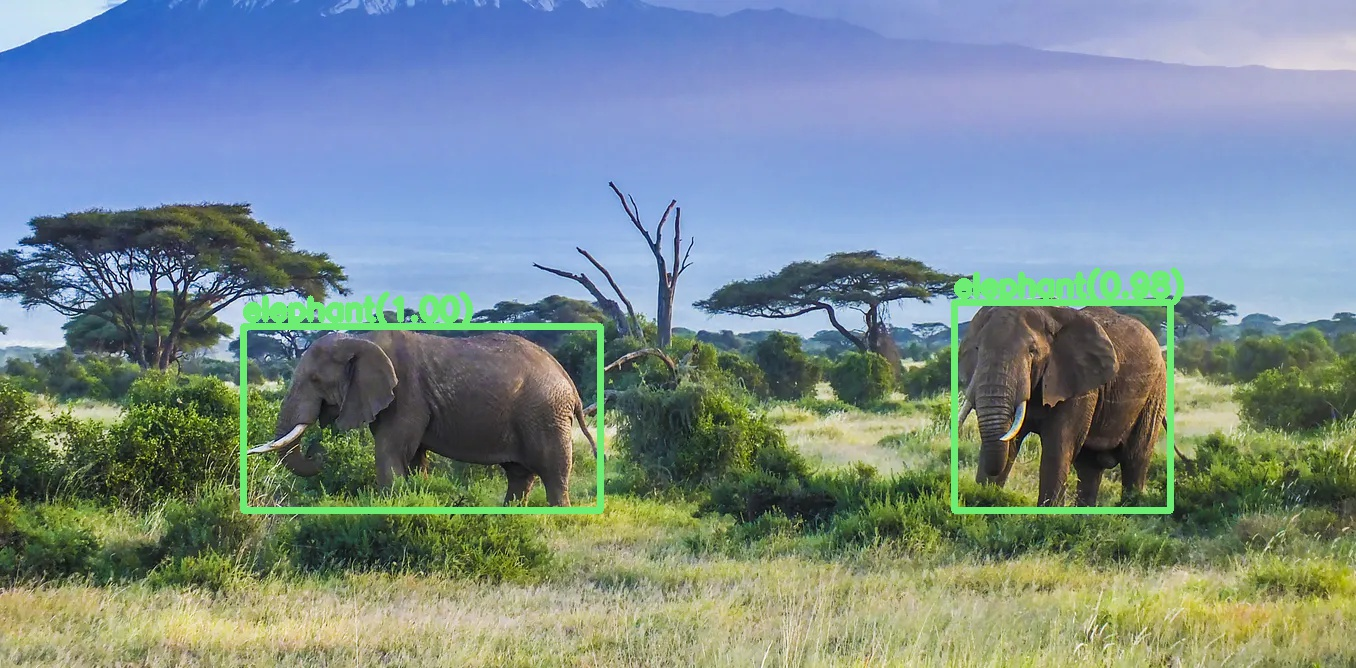
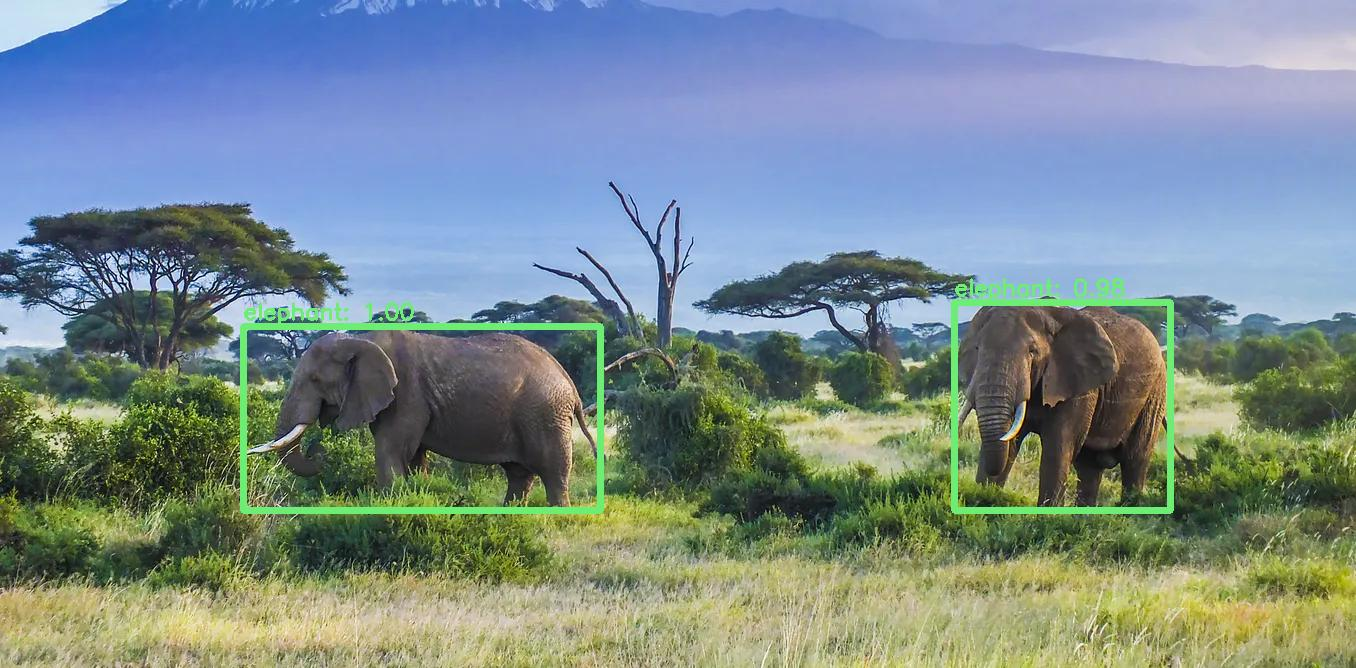
Finished Phase 1 Started Phase 2

Changed region(s): [[0.1549, 0.4192, 0.3717, 0.509], [0.6814, 0.3892, 0.8982, 0.4491]]

diff --git a/yolo_counter.py b/yolo_counter.py
@@ -1,6 +1,172 @@
 import os
 import cv2
 from sort import *
+import numpy as np
+import pandas as pd
+import matplotlib.pyplot as plt
 
-# TODO: Phase 2
+"""
+    1. Parse input files <YOLO weights file> <YOLO config file> <Label file> <Path to input video>
+    
+    2. Modify code so we only draw/annotate boxes for people
 
+    3. Use MOTs (SORT tracker) to assign ID's to bound boxes, refer to sort.md and sort.py 
+
+    4. Save new video with bounding boxes and counter for number of people to "mot_vid/MOTS20-09-result.mp4"
+    
+"""
+
+# Parse in arguments from command line
+# Referenced from argparse library
+parser = argparse.ArgumentParser(description="Command-Line Parser")
+
+# Define a positional argument, our input_file
+parser.add_argument('input_files', nargs='+', type=str, help='<Weights file>   <config file>   <labels file>  <Images/Image dir>')
+parser.add_argument('-inf', action = "store_true", help="print average inference time")
+parser.add_argument('-classes_all', action = "store_true", help="print all classes detected")
+parser.add_argument('-classes_im', action = "store_true", help = "print classes per image")
+
+
+args = parser.parse_args()
+
+
+
+def check_input_paths(args):
+    # Check for correct num of arguments
+    if len(args.input_files) != 4:
+        print("Invalid number of input files. Need at 4\n \
+                <Weights file>   <config file>   <labels file>  <Video Path>")
+        exit(0)
+
+    # Check for valid file paths
+    if not os.path.isfile(args.input_files[3]):
+        print(f"{args.input_files[3]} is not a valid file path")
+        exit(0)
+
+    video = args.input_files[3]
+
+    try:
+        labels = pd.read_csv(args.input_files[2], header=None)
+    except:
+        print(f"Invalid Labels file {args.input_files[2]}")
+        exit(0)
+    return video, labels
+
+# Load YOLO model
+def load_YOLO(model_architecture, model_weights):
+    try:
+        network = cv2.dnn.readNetFromDarknet(model_architecture, model_weights)
+    except:
+        print("Invalid Weights or Config file")
+        exit(0)
+    yolo_layers = ['yolo_82', 'yolo_94', 'yolo_106']
+    return yolo_layers, network
+
+
+# Return array of all frames in video
+def read_video(video_path):
+    frames = []
+    video = cv2.VideoCapture(video_path)
+    if video.isOpened() == False:
+            print(f"Invalid Video {video_path}")
+            exit(0)
+
+    while(video.isOpened()):
+        ret, frame = video.read()
+        
+        if not ret: # TODO: See how to implement an end of video
+            print("End of video")
+            break
+        
+        frames.append(frame) # Store frame into array
+        
+        #cv2.imshow('Frame', frame)
+        #if cv2.waitKey(25) == ord('q'):
+        #    break
+        
+    return frames
+
+
+# Convert Images to Blobs
+def im2Blob(im):
+    input_blob = cv2.dnn.blobFromImage(im, 1 / 255.0, (416, 416), swapRB=True, crop=False)
+    return [input_blob] # Add dimension so that output is (1, 3, 416, 416)
+
+
+# Pass images through the network
+def imgs_to_network(blob_imgs, yolo_layers, network):
+    outputs = []
+    times = []
+    for im in blob_imgs:
+        print(np.array(im).shape)
+        network.setInput(im)
+        start_time = time.time()
+        output = network.forward(yolo_layers)
+        end_time = time.time()
+        times.append(end_time - start_time)
+        outputs.append(output)
+    return outputs, sum(times) / len(times)
+
+
+
+def draw_image(image, output, labels):
+    # Define variables for drawing on image
+    bounding_boxes = []
+    confidences = []
+    classes = []
+    probability_minimum = 0.5
+    threshold = 0.3
+    h, w = image.shape[:2]
+    # Get bounding boxes, confidences and classes
+    for result in output:
+        for detection in result:
+            scores = detection[5:]
+            class_current = np.argmax(scores)
+            confidence_current = scores[class_current]
+            if confidence_current > probability_minimum:
+                box_current = detection[0:4] * np.array([w, h, w, h])
+                x_center, y_center, box_width, box_height = box_current.astype('int')
+                x_min = int(x_center - (box_width / 2))
+                y_min = int(y_center - (box_height / 2))
+                bounding_boxes.append([x_min, y_min, int(box_width), int(box_height)])
+                confidences.append(float(confidence_current))
+                classes.append(class_current)
+
+    # Draw bounding boxes and information on images
+    results = cv2.dnn.NMSBoxes(bounding_boxes, confidences, probability_minimum, threshold)
+    coco_labels = 80
+    np.random.seed(42)
+    colours = np.random.randint(0, 255, size=(coco_labels, 3), dtype='uint8')
+    # Track number of each class predicted per image
+    if len(results) > 0:
+        for i in results.flatten(): # i is the value, , not the index of the results array
+            if labels[0][classes[i]] == 'person':
+                x_min, y_min = bounding_boxes[i][0], bounding_boxes[i][1]
+                box_width, box_height = bounding_boxes[i][2], bounding_boxes[i][3]
+                colour_box = [int(j) for j in colours[classes[i]]]
+                cv2.rectangle(image, (x_min, y_min), (x_min + box_width, y_min + box_height), colour_box, 5)
+                text_box = labels[0][classes[i]] + ': {:.2f}'.format(confidences[i])
+                cv2.putText(image, text_box, (x_min, y_min - 7), cv2.FONT_HERSHEY_SIMPLEX, .75, colour_box, 2)
+    return image
+
+
+video, labels = check_input_paths(args)
+
+yolo_layers, network = load_YOLO(args.input_files[1], args.input_files[0])
+
+video_frames = read_video(video)
+
+print(np.array(video_frames[0]).shape)
+
+for i, frames in enumerate(video_frames): # Loop through all frames in the video
+
+    imgs_blob = im2Blob(frames)
+
+    outputs, avg_time = imgs_to_network(imgs_blob, yolo_layers, network) # Inferences are the outputs
+
+    box_tracker = Sort()
+
+    a = box_tracker.update(outputs[i])
+
+    print(a)
+    boxed_frame = draw_image(frames, outputs[i], labels)

diff --git a/yolo_img_detector.py b/yolo_img_detector.py
@@ -4,6 +4,7 @@ import numpy as np
 import matplotlib.pyplot as plt
 import argparse
 import pandas as pd
+import time
 
 """
     1) Parse arguments passed to program (path to images, coco names (class) file,
@@ -89,14 +90,6 @@ def check_input_paths(args):
         exit(0)
     return imgs, labels
 
-
-if args.classes_im:
-    print("classes_im is selected")
-if args.classes_all:
-    print("classes_all is selected")
-if args.inf: # True value is stored in args.inf
-    print("-inf is selected")
-
 # Load YOLO model
 def load_YOLO(model_architecture, model_weights):
     try:
@@ -139,11 +132,16 @@ def im2Blob(images_cv2):
 # Pass images through the network
 def imgs_to_network(blob_imgs, yolo_layers, network):
     outputs = []
+    times = []
     for im in blob_imgs:
+        print(np.array(im).shape)
         network.setInput(im)
+        start_time = time.time()
         output = network.forward(yolo_layers)
+        end_time = time.time()
+        times.append(end_time - start_time)
         outputs.append(output)
-    return outputs
+    return outputs, sum(times) / len(times)
 
 
 
@@ -175,17 +173,22 @@ def draw_image(image, output, labels):
     coco_labels = 80
     np.random.seed(42)
     colours = np.random.randint(0, 255, size=(coco_labels, 3), dtype='uint8')
-
+    # Track number of each class predicted per image
+    classes_dict = {}
     if len(results) > 0:
-        for i in results.flatten():
+        for i in results.flatten(): # i is the value, , not the index of the results array
             x_min, y_min = bounding_boxes[i][0], bounding_boxes[i][1]
             box_width, box_height = bounding_boxes[i][2], bounding_boxes[i][3]
             colour_box = [int(j) for j in colours[classes[i]]]
-            cv2.rectangle(image, (x_min, y_min), (x_min + box_width, y_min + box_height),
+            cv2.rectangle(image, (x_min, y_min), (x_min + box_width, y_min +    box_height),
                         colour_box, 5)
             text_box = labels[0][classes[i]] + ': {:.2f}'.format(confidences[i])
             cv2.putText(image, text_box, (x_min, y_min - 7), cv2.FONT_HERSHEY_SIMPLEX, .75, colour_box, 2)
-    return image
+            if labels[0][classes[i]] not in classes_dict:
+                classes_dict[labels[0][classes[i]]] = 1 # If "person" not in dictionary, add it to dict, it starts w/ one instance
+            else:
+                classes_dict[labels[0][classes[i]]] += 1 # Get the current num of instances of "person," and increase it by 1, if you see in array [1, 2, 4, 1] in results, there are two persons in the  image
+    return image, classes_dict
 
 
 imgs, labels = check_input_paths(args)
@@ -194,23 +197,52 @@ yolo_layers, network = load_YOLO(args.input_files[1], args.input_files[0])
 
 imgs_cv2 = read_img(imgs)
 
+print(np.array(imgs_cv2[0]).shape)
+
 imgs_blob = im2Blob(imgs_cv2)
 
-outputs = imgs_to_network(imgs_blob, yolo_layers, network)
+outputs, avg_time = imgs_to_network(imgs_blob, yolo_layers, network) # Inferences are the outputs
 
-output_path = './out_images/'
+output_path = './out_imgs/'
 
-# Match name to output label number
-
+# Create out_images/ if it doesn't exist
 try:
     os.mkdir(output_path)
 except:
     pass
-# Output images with boxes as files in out_images
+dicts, img_names = [], []
+classes_all_dict = {} # Shows total class instances across all images
+# save images with boxes as files in out_images/
 for i, im in enumerate(imgs_cv2):
-    img = draw_image(im, outputs[i], labels)
+    img, class_dict = draw_image(im, outputs[i], labels) # Draw inferences made in imgs_to_network() to the original images (imgs_cv2)
+    dicts.append(class_dict)
     # Extract file name with extension
     file = str(os.path.basename(imgs[i]))
+    img_names.append(file)
     # Remove extension
     file = str(os.path.splitext(file)[0])
+    # Save to file
     plt.imsave(output_path + file + '_out.jpg', cv2.cvtColor(img, cv2.COLOR_BGR2RGB))
+
+if args.classes_im: # If flag -classes_im is true
+    print('Per Image Breakdown')
+    for i, im in enumerate(dicts):
+        print(img_names[i]) # Print current image name
+        for cl in im:
+            print(cl + ':', im[cl]) # Print out class and value of that class found in current image
+        print('\n', end='')
+if args.classes_all: # If flag -classes_all is true
+    print('Total Detection Breakdown') # Across all the images you scanned, how many of each class did you see in total?
+    # Go through dict of each image and add to total
+    for im in dicts: # dicts is array of dicts, each image has its own dict
+        for cl in im: # For classes encountered in current image dict
+            if cl not in classes_all_dict: 
+                classes_all_dict[cl] = im[cl] # For the curr image you are on, add the curr class you are on (that has not yet been encountered)
+            else:
+                classes_all_dict[cl] += im[cl] # For the curr i
+    # Print out classes with how many of each
+    for cl in classes_all_dict:
+        print(cl + ':', classes_all_dict[cl])
+    print('\nTotal Number of Classes Detected:', len(classes_all_dict))
+if args.inf: # True value is stored in args.inf
+    print(f"Average Inference Time: %.3f"% avg_time)
